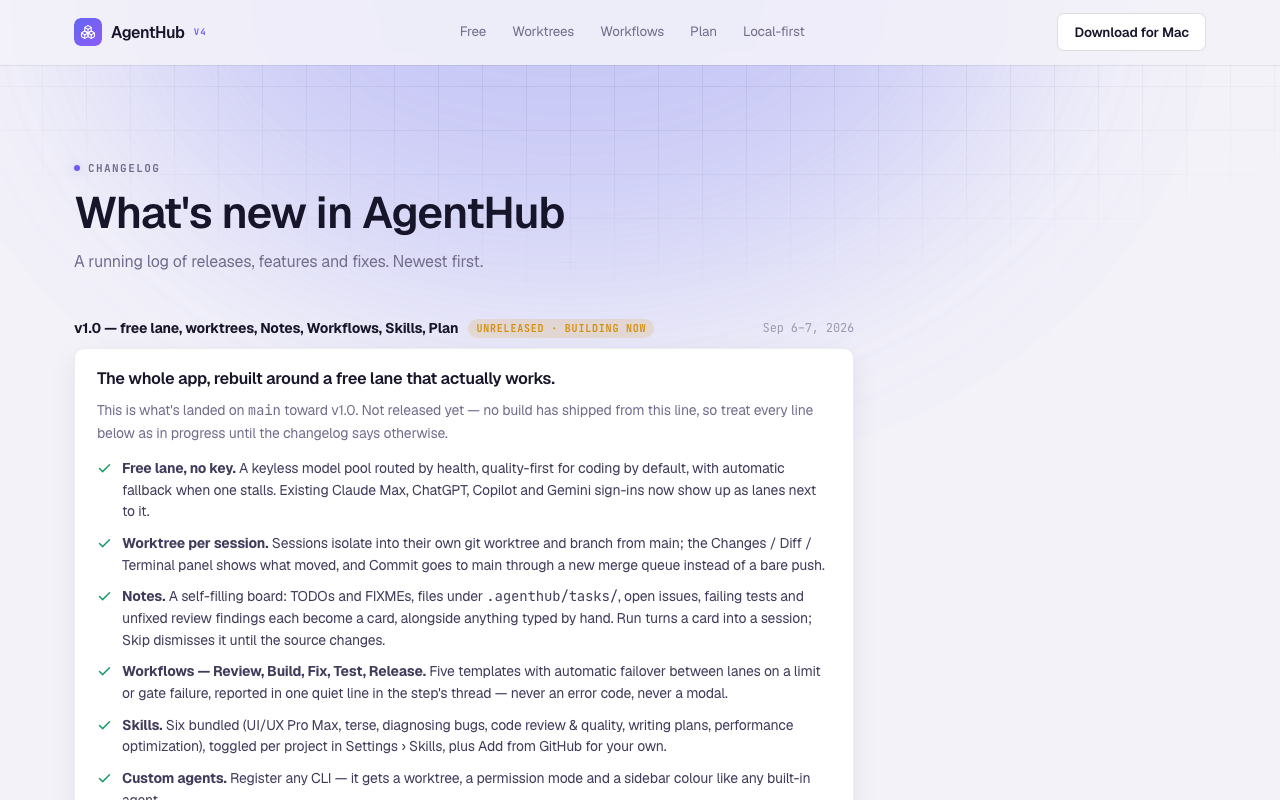
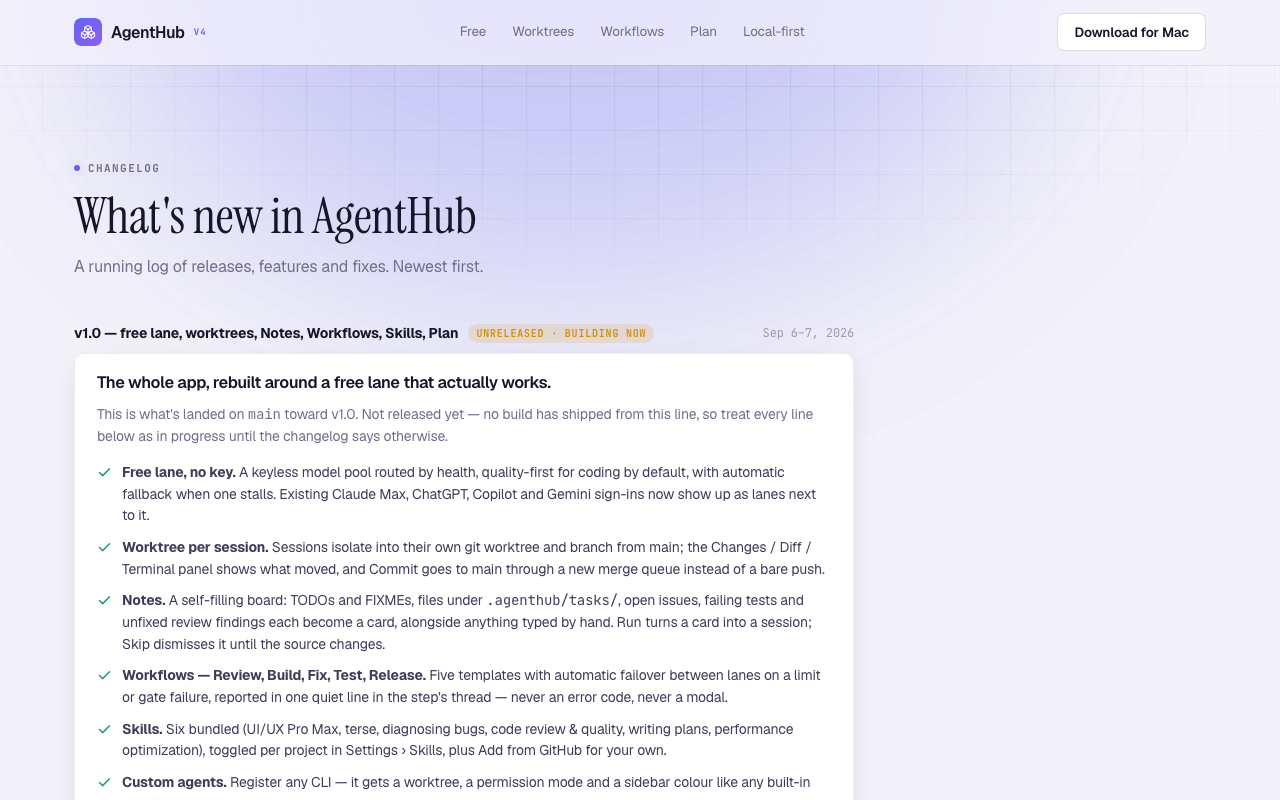
docs: sonnet-38 report + refreshed proof

Changed region(s): [[0.0625, 0.375, 0.6562, 1.0], [0.0625, 0.25, 0.4375, 0.3438], [0.5938, 0.4062, 0.6562, 0.4375]]

diff --git a/docs/sonnet-38-report.md b/docs/sonnet-38-report.md
@@ -1,0 +1,203 @@
+# Sonnet-38 report — site pass 2: from "khá ổn" to memorable
+
+Branch: `v1-site` (continued, not pushed). Working dir:
+`/Users/vietvk/Projects/VietVK/AgentHub-website`. Built on top of `docs/sonnet-35-report.md`'s
+rebuild — nothing from pass 1 was reverted, only extended.
+
+## What shipped, against the brief's five items
+
+**1. Hero loop.** Never touched the owner's daemon beyond two read-only `GET`s for the stat line
+(below) — no composer typing, no session started. Instead: stitched 5 real screenshots per theme into
+a silent 8.6s crossfade slideshow with `ffmpeg` (`xfade` filter, true dissolve between frames, not a
+fade-to-black — my first pass used per-clip fade in/out and produced a visible black flash at every
+cut, caught in my own proof screenshot and rebuilt with `xfade` before shipping). Light sequence:
+`turn-summary-app-light → build54-tasks-light → notes-board-light → picker-ratings-app-light →
+plan-spacing-app-light`; dark sequence uses the dark variant of each shot that has one and reuses the
+light one for the two that don't (`notes-board`, `plan-spacing-app`), same convention pass 1 used.
+Output: `assets/hero-loop-{light,dark}.{mp4,webm}` (264–420 KB mp4, 630–730 KB webm), no separate
+poster file — `turn-summary-app-{light,dark}.png` (already in `assets/`) is reused directly as the
+`<video poster>` and as a same-theme `<img class="hero-poster">`. The hero markup ships both an
+`<img>` and a `<video>`; CSS hides the `<video>` by default and only reveals it once `app.js` adds
+`.js-video` to `.hero-visual` — and it skips that entirely when
+`matchMedia('(prefers-reduced-motion: reduce)').matches`. A `prefers-reduced-motion: reduce` media
+query in `styles.css` also force-hides the video and force-shows the poster as a second, CSS-only
+guarantee independent of JS running correctly.
+
+**2. Storyboard.** New `#how` section between the hero and `#free`: three `.story-step` cards (Notes
+→ Execute → Merge), each fully visible and readable with no JS at all — nothing is hidden pending a
+scroll trigger, learning from pass 1's own postmortem about `IntersectionObserver` never firing on a
+`fullPage` Playwright capture. `app.js` adds an `IntersectionObserver` that only adds a decorative
+`.active` class (accent border + gradient step-number) as each card enters the viewport in a real
+browser; it degrades to a plain 3-up static list with no JS, and the site-wide
+`prefers-reduced-motion` rule already zeroes the CSS transition, so the "light-up" never animates for
+a reduced-motion visitor — it just appears.
+
+**3. Comparison table.** New `#compare` section, six rows (free lane without a key, worktree per
+session, built-in workflow templates, automatic failover, runs locally, price) × AgentHub + the four
+named competitors, every cell read from
+`/Users/vietvk/Projects/VietVK/AgentHub/docs/research/2026-09-07-field-study/A-orchestrator-apps.md`
+(never linked or named on the live page, per the source-path rule) — `—` where that doc didn't state
+a fact rather than guessing (e.g. vibe-kanban's "free lane, no key" row, or whether Conductor/vibe-
+kanban/Cursor/Codex ship built-in workflow templates or automatic failover — none of the four
+sources said either way). AgentHub's own row is marked with a `★` (CSS `content` on `.us` cells, not
+a guess — it's the product's own shipped behavior). Wrapped in a horizontally-scrolling container
+(`.compare-scroll`) so the 7-column table never causes page-level overflow on mobile — confirmed 0px
+`scrollWidth` overflow at 390px on all three pages after adding it.
+
+**4. Dark default + system light.** Swapped `styles.css`'s `:root` token block: the former
+`@media (prefers-color-scheme: dark)` values are now the bare `:root` (unconditional) default, and
+the former default light values moved under a new `@media (prefers-color-scheme: light)` block —
+same two palettes, opposite default, so a user agent that doesn't evaluate `prefers-color-scheme` at
+all (or reports neither) now gets dark, not light. The existing `.shot-light`/`.shot-dark`
+light/dark-screenshot-pair mechanism flips for free from this one change (dark shot shows by default
+site-wide, light shot under the light media query) — didn't have to touch any of the ~14 image pairs
+individually. Added an unconditional `<meta name="theme-color" content="#0a0912">` ahead of the two
+existing conditional ones on all three pages, for the same "no media-query support" fallback case.
+
+**5. Real numbers in the hero.** `95 free models · 5 workflows · 6 skills`, each independently
+checked, not carried over from the brief's example text:
+- **95 free models** — `curl -s http://127.0.0.1:4600/api/models/sources` (the one non-`/api/health`
+  call I made to the owner's running daemon; read-only `GET`, nothing sent) → `.free.total` = 95.
+  Confirmed this is the exact field the app itself uses for this count:
+  `ui/src/deck/pages/models.tsx:410` computes its own "N more models" button off
+  `data?.free.total ?? 0`, so the number on the site now matches what the app would show, not a
+  number I invented from filtering the list myself.
+- **5 workflows** — Review/Build/Fix/Test/Release, already named in the `#workflows` section from
+  pass 1.
+- **6 skills** — `ls -d runtime/skills/*/` in the AgentHub repo → 6 directories
+  (`code-review-and-quality`, `diagnosing-bugs`, `performance-optimization`, `terse`,
+  `ui-ux-pro-max`, `writing-plans`), matching the six pills already listed in `#skills`.
+
+Shown as three `.star-chip` pills under the hero meta line, reused as a visual/motion element (see
+micro-motion below), not just plain text.
+
+## Micro-motion (also requested, folded in)
+
+- **Card hover lift**: `.frame` (screenshot frames) and `.pill` (skill pills) now `translateY(-3px to
+  -4px)` + deepen their shadow + tint their border on hover; `.wf-chip` (workflow chips) get a
+  smaller `-2px` lift. All via `transform`/`box-shadow`/`border-color` transitions, so
+  `prefers-reduced-motion`'s site-wide `transition-duration: .001ms !important` already neutralizes
+  them for anyone who's asked for less motion — no separate guard needed.
+- **Glass nav**: `.nav` background went from `color-mix(...86%...)` + `blur(10px)` to
+  `color-mix(...70%...)` + `blur(14px) saturate(1.4)` (more translucent, more blurred, slightly
+  saturated) pre-scroll, sharpening to `88%` opaque once `.scrolled` — reads more like a real glass
+  panel over the background grid, less like a solid bar with a hairline.
+- **★ chips**: new `.star-chip` component (star-prefixed pill, accent-tinted background/border) —
+  used for the hero's three real-number stats and once more inline in the Compare section's intro
+  line to mark the "AgentHub" column. Lifts and scales slightly on hover.
+
+## Typography
+
+`h1`/`h2`/`h3`/`h4` base letter-spacing tightened from `-0.02em` to `-0.024em`, line-height `1.1` →
+`1.06`. Section headings (`.section-head h2`, `.feature-text h2`, `.cta-band h2`, `.page-head h1`,
+the hero `h1` itself) now set `font-family: var(--font-display)` (Instrument Serif) at weight 500 and
+bumped sizes — e.g. hero `clamp(34px,5.4vw,56px)` → `clamp(38px,6.2vw,64px)`, section heads
+`clamp(26px,3.4vw,38px)` → `clamp(30px,3.9vw,44px)`. Previously only the hero's `.grad-text` span
+("free to run.") was serif; every major heading on the site is serif now, which is also why the
+hero's own italic gradient span still reads as an accent rather than a mismatched font swap.
+
+## Verification (real commands, real output)
+
+- **Local preview**: `python3 -m http.server 5071` from the site root, killed after every check pass
+  (`lsof -ti tcp:5071 | xargs kill` — confirmed empty afterward). No server left running.
+- **Playwright** (same `playwright-core` install pass 1 used, from
+  `AgentHub/ui/node_modules/playwright-core`, Chromium already cached): scripted checks across
+  `index.html`, `changelog.html`, `plan/index.html` × light/dark, plus 390×844 mobile × light/dark for
+  all three pages —
+  - `h1Count === 1` on every page/theme (6/6).
+  - Zero `<img>` missing `alt` on every page/theme.
+  - Zero console errors, zero page errors, on every page/theme.
+  - `document.documentElement.scrollWidth - clientWidth === 0` at both 1280px and 390px on every
+    page (no horizontal overflow — the new 7-column compare table's `.compare-scroll` wrapper is why
+    it doesn't blow out mobile width).
+  - `prefers-reduced-motion: reduce` context: hero `<video>` computed `display: none`, poster `<img>`
+    computed `display !== none` — confirmed true.
+  - Motion-allowed dark context: dark `<video>` visible, dark poster hidden, light `<video>` hidden —
+    confirmed true (and the light-context mirror, checked separately).
+  - Storyboard: scrolled `#how` into view, waited 600ms, counted `.story-step.active` — 3 of 3 lit
+    (all three sit in one viewport-height row at 1280px, so they cross the 0.4 threshold together;
+    the mechanism firing is what I verified, not staggered timing).
+- **Screenshots**: 12 proof PNGs in `docs/` — `{home,changelog,plan}-1280x800-{light,dark}.png` and
+  `{home,changelog,plan}-390x844-{light,dark}.png` — largest is 255,708 bytes (`home-1280x800-light`),
+  all ≤300 KB, checked with `find docs -maxdepth 1 -name "*.png" -size +300k` (empty result both
+  times I ran it, including after the final asset cleanup below).
+- **Asset link check**: grepped every `assets/*.{png,svg,webm,mp4}` reference across all three HTML
+  files and confirmed each file exists on disk; separately diffed `ls assets/` against the same
+  reference list to find and remove dead files (see Cleanup).
+- **Copy compliance**: `grep -ni "omniroute\|\bpi\b"` across every HTML/CSS/JS/README file in the
+  repo → no hits. `grep -ni` for internal absolute paths, the AgentHub repo's doc/crate paths, and
+  the two internal doc names I sourced from (`qa-loop-1-design`, `field-study`) → no hits anywhere in
+  shipped copy.
+- **Cache-busting**: bumped `styles.css?v=1`→`?v=2` and `app.js?v=1`→`?v=2` on all three pages per
+  the README's own instruction (GitHub Pages caches these for 10 minutes; both files changed
+  substantially this pass).
+
+## Bug I found and fixed before it shipped
+
+First hero-loop build used ffmpeg's `fade=t=in`/`fade=t=out` on each clip independently, concatenated
+with the `concat` demuxer — visually this produces a hard cut through black between every pair of
+images, not a crossfade. My own debug screenshot (`video.currentTime` frozen mid-transition) caught a
+solid black frame where a screenshot should be — looked like a broken/unloaded video at first glance,
+but `video.readyState === 4` and `currentTime` was advancing normally, so it was actually mid-fade-to-
+black by design, not a load failure. Rebuilt with `xfade` (true pixel-blend crossfade between
+consecutive inputs, offset-chained across all 5 frames) — re-screenshotted at the same relative
+timestamp and got a clean in-progress dissolve between two real screens, no black.
+
+## Scope calls
+
+- **No live daemon recording.** The brief explicitly ruled out typing into the composer against the
+  owner's daemon, and offered the stitched-screenshot fallback as the primary path, not a last
+  resort — used that path directly rather than attempting a Playwright *video-recording* session
+  against `127.0.0.1:4600` (which the "never send anything to the daemon beyond read-only GETs" rule
+  would have blocked anyway, since driving the UI to walk through a sequence isn't a GET).
+- **Comparison table has no AgentHub-vs-nothing row for "built-in workflow templates" or "automatic
+  failover" beyond AgentHub's own row** — none of the four sourced write-ups stated whether Conductor,
+  vibe-kanban, Cursor or Codex have an equivalent, so those 8 cells are `—`, not "No". Marking them
+  "No" would have been a guess the brief explicitly forbade.
+- **Storyboard sits between the hero and `#free`**, not appended at the bottom — it's a "how the whole
+  loop works" explainer, so it reads better right after the pitch and before the section-by-section
+  walkthrough starts. Removed the old `#free { padding-top: 200px }` hack from `styles.css` at
+  ≥900px width, since that spacing existed only to stop the hero's screenshot and `#free`'s
+  screenshot from visually merging when they were adjacent sections — they're no longer adjacent now
+  that `#how` sits between them.
+- **Didn't add a manual light/dark toggle.** The brief said "dark default + system light" (singular
+  system-driven behavior), matching the existing site's design (no toggle in pass 1 either) — kept it
+  System-only, just flipped which side is the fallback.
+
+## Cleanup
+
+- Removed `assets/hero-loop-poster-{light,dark}.png` after confirming via `cmp` they were
+  byte-identical to `assets/turn-summary-app-{light,dark}.png` (I'd copied them for the poster before
+  realizing the source screenshot already served that exact purpose) — repointed every `poster=`/
+  `<img class="hero-poster">` reference at the existing file instead of shipping a duplicate.
+- Removed `assets/build54-tasks-{light,dark}.png` and `assets/notes-board-light.png` after they were
+  baked into `hero-loop-{light,dark}.{mp4,webm}` — nothing in the shipped HTML references them
+  directly (they're source frames for the video, not standalone site imagery), so keeping them in
+  `assets/` would've been dead weight.
+- No servers left running (`lsof -ti tcp:5071` empty after the final check pass).
+- All scratch Playwright/ffmpeg scripts and intermediate video files lived in this session's
+  scratchpad directory and were deleted at the end; nothing left in `/tmp` or scattered in the repo.
+- `.env` was not read or touched (doesn't exist in this repo).
+- Nothing pushed, nothing merged, nothing deployed.
+
+## Commits on `v1-site` (this pass)
+
+1. `site: pass 2 — hero loop, storyboard, comparison, dark default` — `index.html`, `styles.css`,
+   `app.js`, `README.md`, `assets/hero-loop-{light,dark}.{mp4,webm}`, plus the removal of the three
+   dead PNGs listed above.
+2. `docs: sonnet-38 report + refreshed proof` — this file + the 12 proof screenshots in `docs/`
+   (8 re-captured to reflect the new design, 4 new mobile-dark/light pairs added for changelog and
+   plan that pass 1 didn't have).
+
+## What I did not do
+
+- Did not verify the "95 free models" number will still read 95 by the time this ships — it's a live
+  count from the gateway's catalog at the moment I checked
+  (`GET /api/models/sources` → `.free.total`), baked into the static HTML as of this session, not
+  fetched live by the browser (the brief's "count... at build time" reading, and the only sane one
+  for a static site that must never call the owner's daemon from a visitor's browser). If that number
+  drifts meaningfully before v1.0 ships, it needs a manual re-check and re-bake, not an automated one
+  — there's no build step in this repo to hang that on.
+- Did not run an actual Lighthouse audit (no `lighthouse` CLI in this environment, same gap pass 1
+  hit) — substituted the same Playwright-based "basics" pass 1 used (console/page errors, single h1,
+  alt coverage, zero overflow).
